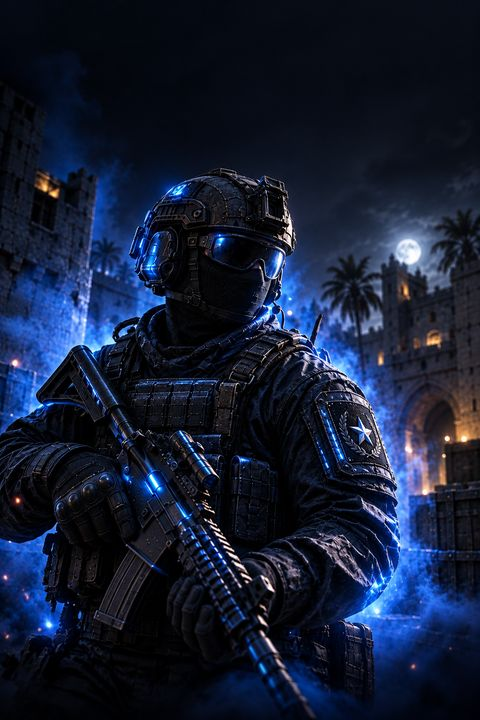
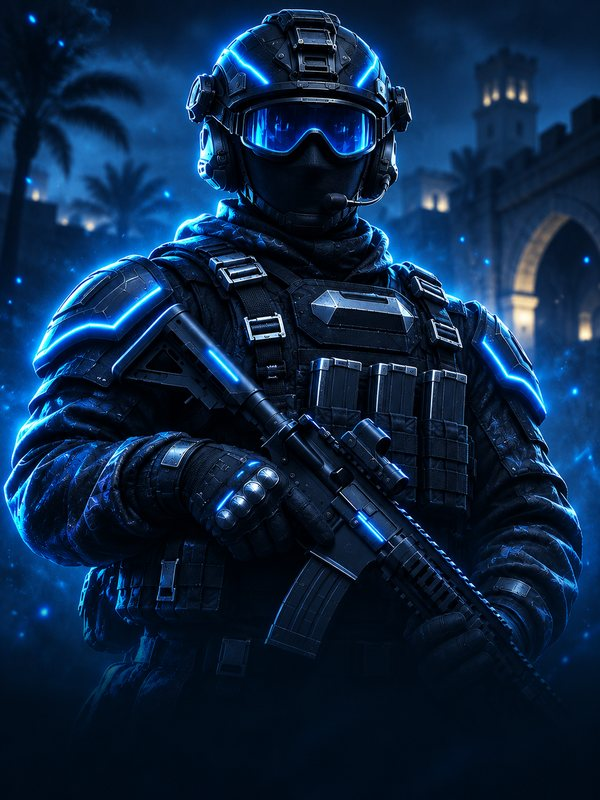
Новые карточки VIP и PREMIUM
Claude-Session: https://claude.ai/code/session_012xAbwNHTjhA8EXRrYfLwFY

diff --git a/index.html b/index.html
@@ -2582,7 +2582,7 @@ function spinWheel(){if(!logged){toast("Сначала войди через Ste
     $("whRes").classList.add("pop");toast(`Выпало: ${WSEG[i][1]} ${WSEG[i][2]}${again?". Привилегия даёт ещё одну попытку":""}`)})}
 
 // ---------- магазин ----------
-const TIERIMG={"VIP": "img/tier/vip.jpg?v=cf251214", "PREMIUM": "img/tier/premium.jpg?v=6be2871c", "LEGEND": "img/tier/legend.jpg?v=141989e6", "ELITE": "img/tier/elite.jpg?v=b7fe4093", "TITAN": "img/tier/titan.jpg?v=e1840024", "GOD": "img/tier/god.jpg?v=fc01f1d2"};
+const TIERIMG={"VIP": "img/tier/vip.jpg?v=6c7e2367", "PREMIUM": "img/tier/premium.jpg?v=aa901830", "LEGEND": "img/tier/legend.jpg?v=141989e6", "ELITE": "img/tier/elite.jpg?v=b7fe4093", "TITAN": "img/tier/titan.jpg?v=e1840024", "GOD": "img/tier/god.jpg?v=fc01f1d2"};
 const CREST={
  VIP:'<path d="M23 6l4 9 10 1-7 7 2 10-9-5-9 5 2-10-7-7 10-1z"/>',
  PREMIUM:'<path d="M23 4l16 6v11c0 10-7 17-16 21C14 38 7 31 7 21V10z"/><path d="M23 13l3 6 6 1-4 4 1 6-6-3-6 3 1-6-4-4 6-1z"/>',
